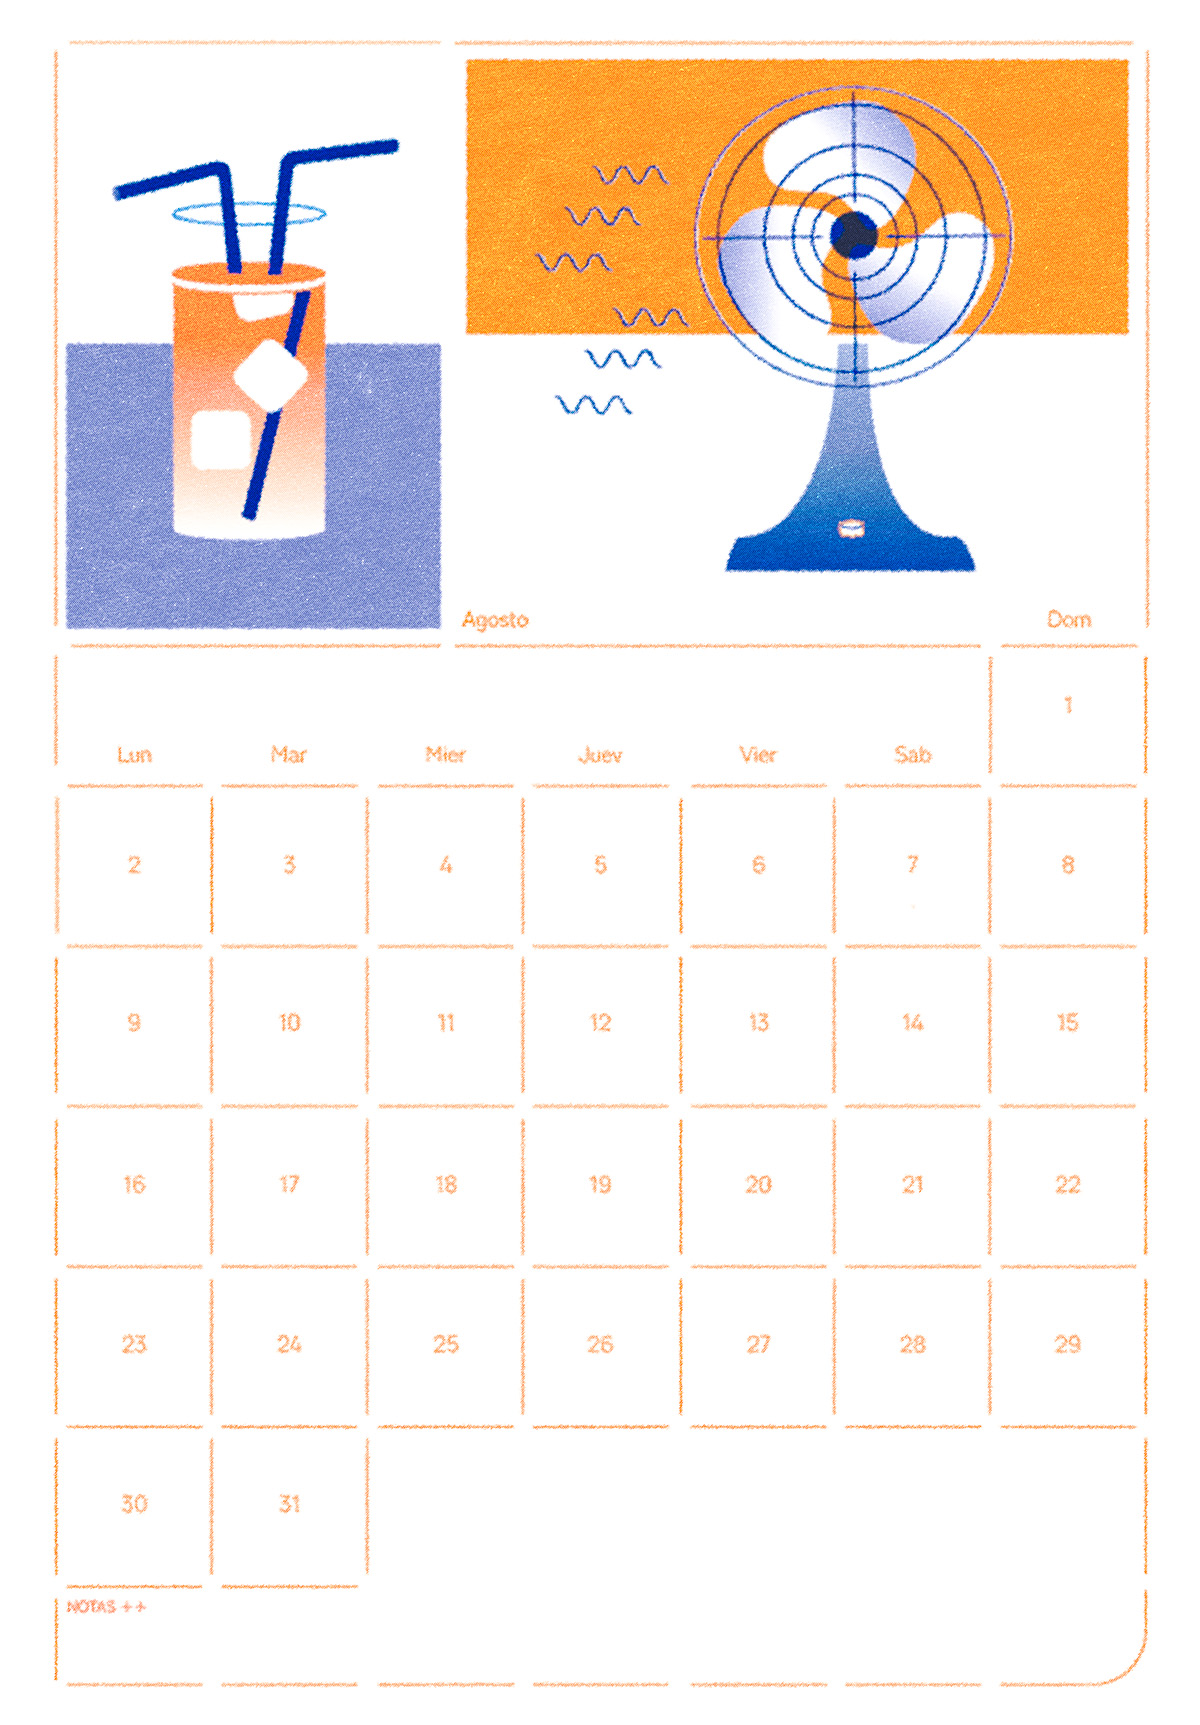
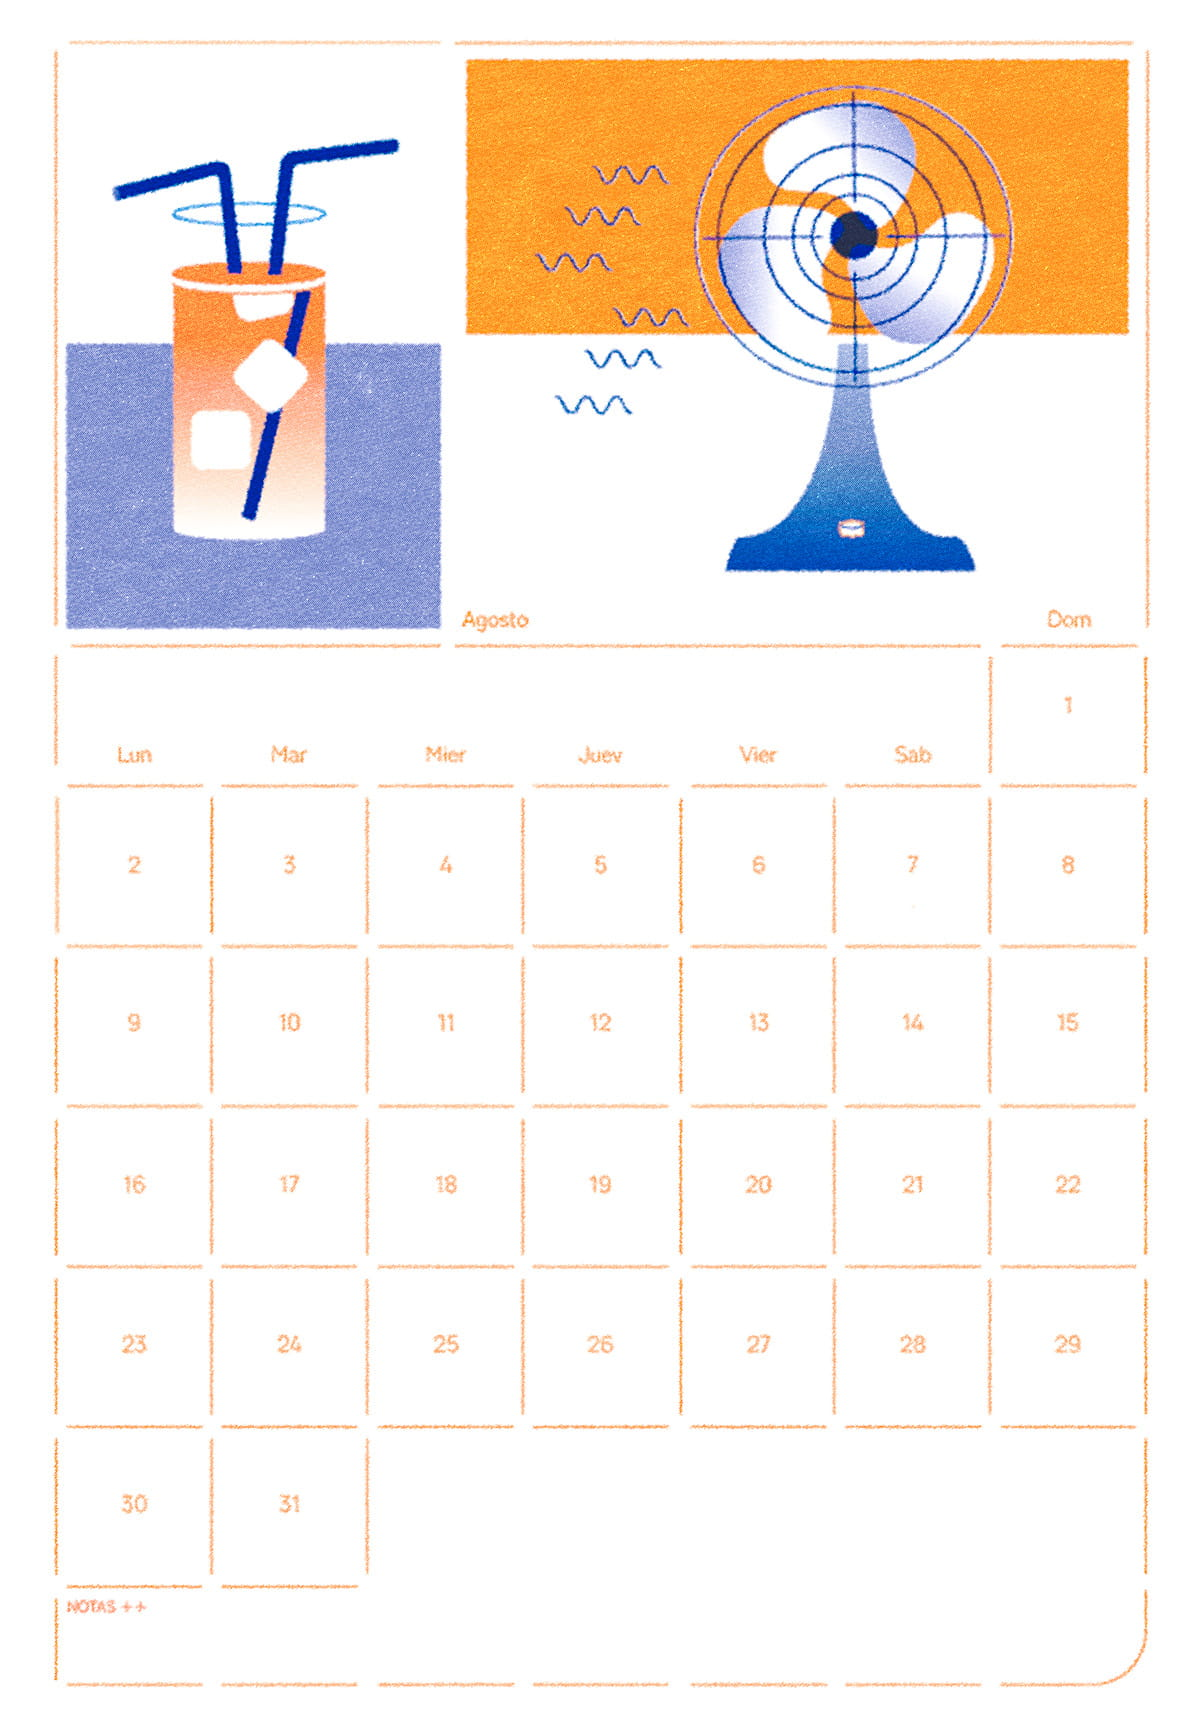
reducir tamaño de imagenes

Changed region(s): [[0.37, 0.0307, 0.9558, 0.338], [0.0617, 0.0922, 0.37, 0.3687]]

diff --git a/calendario2027.html b/calendario2027.html
@@ -35,20 +35,21 @@
 
             <div class="bloquePhotos">
                 <div class="images-row">
-                <img src="./assets/img/calendario/Enero.jpg" alt="Imagen del calendario" />
-                <img src="./assets/img/calendario/Octubre.jpg" alt="Imagen del calendario" />
+                <img src="./assets/img/calendario/Enero.jpg" alt="Imagen del calendario, es una montaña nevada y una naranja. Colores azul oscuro y naranja fosforito" />
+                <img src="./assets/img/calendario/Octubre.jpg" alt="Imagen del calendario de Octubre" />
                 </div>
                 <div class="images-row">
-                <img src="./assets/img/calendario/Julio.jpg" alt="Imagen del calendario" />
-                <img src="./assets/img/calendario/Agosto.jpg" alt="Imagen del calendario" />
+                <img src="./assets/img/calendario/Julio.jpg" alt="Imagen del calendario de Julio, es un helado con muchas bolas y tres tomates cherrys. Colores rojo y azul" />
+                <img src="./assets/img/calendario/Agosto.jpg" alt="Imagen del calendario de Agosto, es un refresco y un ventilador. Colores azul oscuro y naranja fosforito " />
                 </div>
                 <div class="images-row">
-                <img src="./assets/img/calendario/Mayo.jpg" alt="Imagen del calendario" />
-                <img src="./assets/img/calendario/Noviembre.jpg" alt="Imagen del calendario" />
+                <img src="./assets/img/calendario/Mayo.jpg" alt="Imagen del calendario de Mayo" />
+                <img src="./assets/img/calendario/Noviembre.jpg" alt="Imagen del calendario de Noviembre" />
                 </div>
                 <div class="images-row">
-                <img src="./assets/img/calendario/Marzo.jpg" alt="Imagen del calendario" />
-                <div></div>>
+                <img src="./assets/img/calendario/Marzo.jpg" alt="Imagen del calendario de Marzo" />
+                <img src="./assets/img/calendario/prontomas.jpg" alt="Mas imagenes proximamente" />
+
                 </div>
             
             
